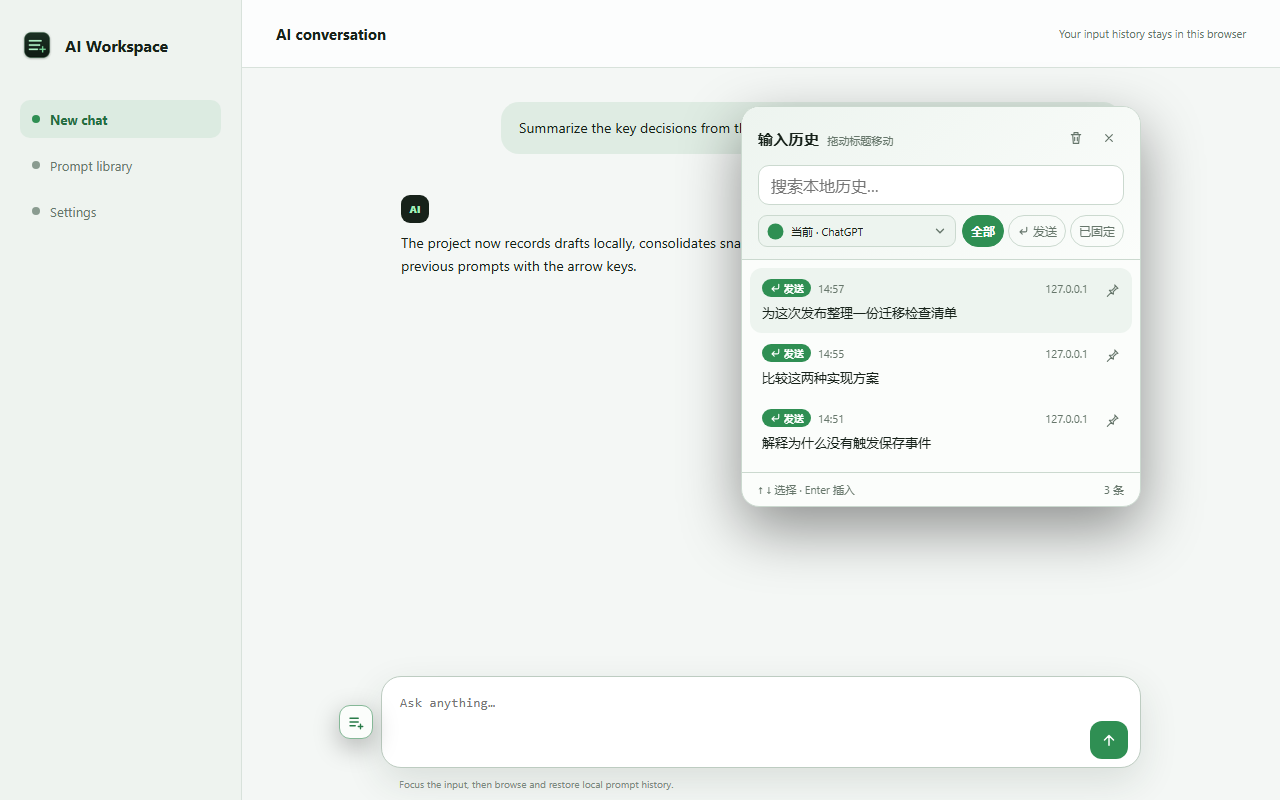
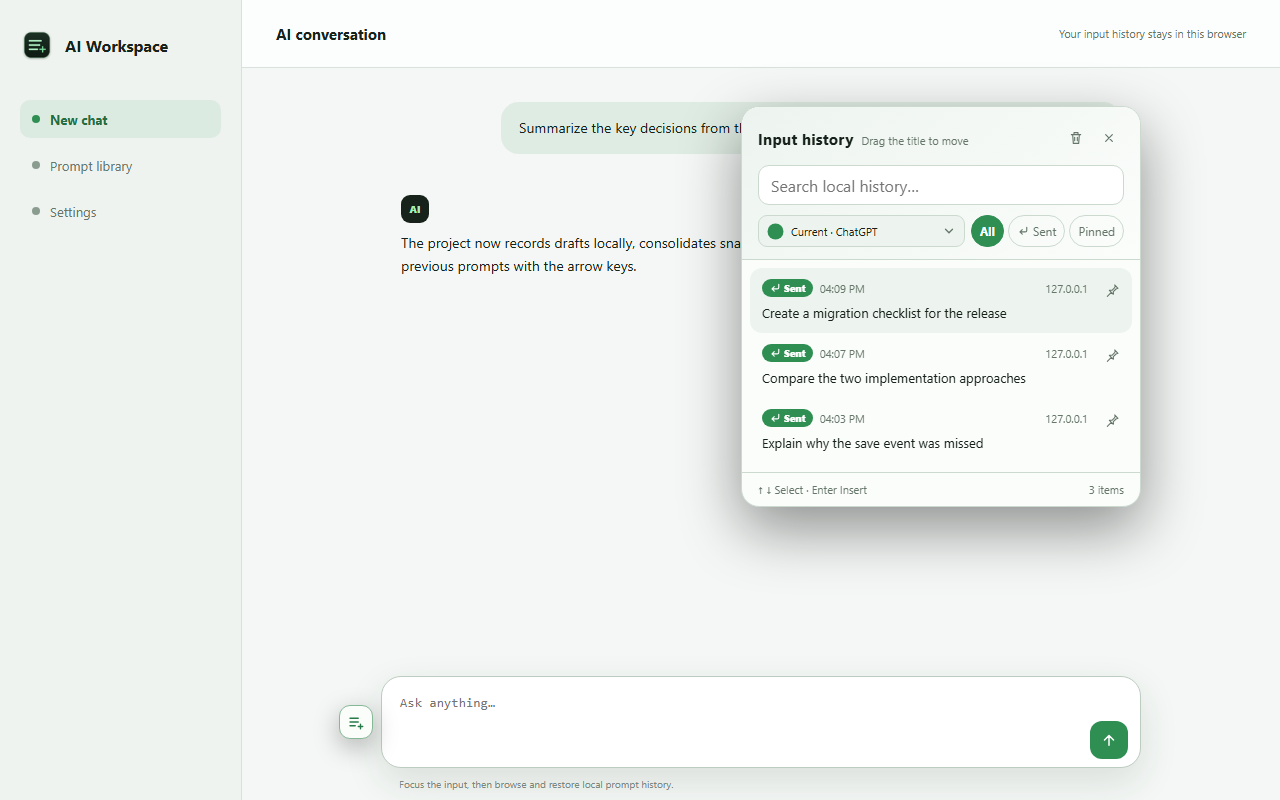
fix: 发布 1.31.1，修复 Queue 与历史导航交互

diff --git a/tests/content-regression.test.js b/tests/content-regression.test.js
@@ -72,17 +72,17 @@ async function setup() {
     },
     HistoryNavigator: class {
       constructor() { h.historyNavigator = this; this.reset(); this.moves = 0; this.interrupts = 0; }
-      reset() { this.browsing = false; this.blocked = false; }
+      reset() { this.browsing = false; }
       isApplying() { return false; }
       isBrowsing() { return this.browsing; }
-      canMove() { return !this.blocked; }
+      canMove() { return true; }
       interrupt() {
-        if (!this.browsing && !this.blocked) return false;
-        this.blocked = true;
+        if (!this.browsing) return false;
+        this.browsing = false;
         this.interrupts += 1;
         return true;
       }
-      async move() { if (this.blocked) return false; this.browsing = true; this.moves += 1; return true; }
+      async move() { this.browsing = true; this.moves += 1; return true; }
     },
     SendDetector: class {
       constructor(adapter, onSend) { this.onSend = onSend; }
@@ -90,6 +90,18 @@ async function setup() {
       handlePointerDown() {}
       watchEnter() {}
       cancelEnter() {}
+    },
+    promptQueueModel: { supportedSite: () => true },
+    PromptQueue: class {
+      constructor() { h.promptQueue = this; this.mutatingComposer = false; this.host = {}; this.shadow = {}; }
+      async init() {}
+      interceptKeydown() { return false; }
+      interceptSubmit() { return false; }
+      interceptSendControl() { return false; }
+      suppressAutoDispatchRecord() { return false; }
+      scheduleDrain() {}
+      onRequestFinished() {}
+      async confirmRecordedSend() { return false; }
     }
   };
   await vm.runInNewContext(source, context);
@@ -189,35 +201,62 @@ test("上下键只在光标到达首尾行边界时切换历史", async () => {
   assert.equal(h.historyNavigator.moves, 1);
 });
 
-test("历史轮换后手动编辑文本会把上下键交还给输入框", async () => {
+test("历史轮换后再次输入只重置游标，不会禁用后续上下历史切换", async () => {
   const h = await setup();
   const first = h.event("keydown", { key: "ArrowUp" });
   assert.equal(first.defaultPrevented, true);
-  assert.equal(first.propagationStopped, true, "历史切换时不能让同一个方向键继续交给页面处理");
   assert.equal(h.historyNavigator.moves, 1);
 
-  h.composer.text = "编辑过的历史内容";
+  h.composer.text = "手动输入的新内容";
   h.event("input");
-  assert.equal(h.historyNavigator.canMove(), false);
+  assert.equal(h.historyNavigator.canMove(), true);
+  assert.equal(h.historyNavigator.isBrowsing(), false, "用户输入后只应结束旧的历史游标");
+
+  h.caretCanMove = false;
   const next = h.event("keydown", { key: "ArrowUp" });
-  assert.equal(next.defaultPrevented, undefined, "中断后要保留浏览器原生光标上下移动");
-  assert.equal(next.propagationStopped, true, "中断后仍不能让方向键泄漏给 ChatGPT 快捷键处理");
-  assert.equal(h.historyNavigator.moves, 1);
+  assert.equal(next.defaultPrevented, true, "新输入后到达首行仍应立即重新浏览历史");
+  assert.equal(h.historyNavigator.moves, 2);
 });
 
-test("历史轮换后键盘或鼠标移动光标会恢复原生上下行移动", async () => {
+test("Queue 连续清空输入框时保留历史游标，可继续选择第三条及更老历史", async () => {
+  const h = await setup();
+  h.caretCanMove = false;
+
+  h.event("keydown", { key: "ArrowUp" });
+  assert.equal(h.historyNavigator.moves, 1);
+  assert.equal(h.historyNavigator.canMove(), true);
+
+  for (const expectedMoves of [2, 3]) {
+    h.promptQueue.mutatingComposer = true;
+    h.composer.text = "";
+    h.event("input");
+    h.promptQueue.mutatingComposer = false;
+    assert.equal(h.historyNavigator.isBrowsing(), true, "Queue 内部清空不能改变当前历史游标");
+
+    const next = h.event("keydown", { key: "ArrowUp" });
+    assert.equal(next.defaultPrevented, true);
+    assert.equal(h.historyNavigator.moves, expectedMoves, `应能继续选择第 ${expectedMoves} 条历史`);
+  }
+
+  h.composer.text = "";
+  h.event("input");
+  assert.equal(h.historyNavigator.canMove(), true, "用户普通清空仍应开始新的历史导航");
+});
+
+test("历史轮换后移动光标只重置游标，边界方向键仍可重新浏览历史", async () => {
   for (const moveCaret of [
     (h) => h.event("keydown", { key: "ArrowLeft" }),
     (h) => h.event("pointerdown", { composedPath: () => [h.composer] })
   ]) {
     const h = await setup();
+    h.caretCanMove = false;
     h.event("keydown", { key: "ArrowUp" });
     moveCaret(h);
-    assert.equal(h.historyNavigator.canMove(), false);
-    const next = h.event("keydown", { key: "ArrowDown" });
-    assert.equal(next.defaultPrevented, undefined);
-    assert.equal(next.propagationStopped, true);
-    assert.equal(h.historyNavigator.moves, 1);
+    assert.equal(h.historyNavigator.canMove(), true);
+    assert.equal(h.historyNavigator.isBrowsing(), false, "移动光标应结束旧游标而不是禁用历史");
+    const next = h.event("keydown", { key: "ArrowUp" });
+    assert.equal(next.defaultPrevented, true);
+    assert.equal(h.historyNavigator.moves, 2);
   }
 });
 

diff --git a/src/prompt-queue.js b/src/prompt-queue.js
@@ -72,9 +72,20 @@
       this.directClickUntil = 0;
       this.directSubmitUntil = 0;
       this.sawPageBusy = false;
+      this.mutatingComposer = false;
       this.drainTimer = null;
       this.host = null;
     }
+
+    setComposerText(input, text) {
+      this.mutatingComposer = true;
+      try {
+        this.adapter.setText(input, text);
+      } finally {
+        this.mutatingComposer = false;
+      }
+    }
+
     async init() {
       if (!this.enabled) return;
       this.items = await this.store.getPromptQueue(this.key);
@@ -168,12 +179,29 @@
         return;
       }
       if (action === "remove") {
-        this.failedIds.delete(id);
-        if (this.dispatchingId === id) this.resetDispatchState();
-        await this.store.removePromptQueueItem(this.key, id);
-        if (this.editingId === id) this.editingId = "";
-        await this.refresh();
+        await this.withdraw(id);
       }
+    }
+
+    async withdraw(id) {
+      await this.syncConversationKey();
+      const item = this.items.find((entry) => entry.id === id);
+      if (!item) return false;
+      this.failedIds.delete(id);
+      if (this.dispatchingId === id) this.resetDispatchState();
+      await this.store.removePromptQueueItem(this.key, id);
+      if (this.editingId === id) this.editingId = "";
+      this.items = await this.store.getPromptQueue(this.key);
+
+      const input = this.getInput?.() || this.adapter.findComposer(document, this.shadow);
+      if (input?.isConnected) {
+        const current = this.adapter.getText(input);
+        const restored = current.trim() ? `${item.text}\n${current}` : item.text;
+        this.setComposerText(input, restored);
+      }
+      this.render();
+      this.scheduleDrain(0);
+      return true;
     }
 
     async sendNow(id) {
@@ -191,7 +219,7 @@
       this.dispatchAttemptAt = 0;
       this.dispatchStartedAt = Date.now();
       this.render();
-      this.adapter.setText(input, item.text);
+      this.setComposerText(input, item.text);
       this.continueDispatch(input, id);
       return true;
     }
@@ -307,7 +335,7 @@
       this.sawPageBusy = this.pageState()?.busy === true;
       const item = await this.store.enqueuePrompt(this.key, text);
       if (!item) return false;
-      this.adapter.setText(input, "");
+      this.setComposerText(input, "");
       this.items = await this.store.getPromptQueue(this.key);
       this.render();
       return true;
@@ -334,7 +362,7 @@
       this.dispatchAttemptAt = 0;
       this.dispatchStartedAt = Date.now();
       this.render();
-      this.adapter.setText(input, item.text);
+      this.setComposerText(input, item.text);
       this.continueDispatch(input, item.id);
     }
 
@@ -356,7 +384,7 @@
       }
       const item = this.items.find((entry) => entry.id === itemId);
       if (!item) return;
-      if (normalizePromptText(this.adapter.getText(input)) !== normalizePromptText(item.text)) this.adapter.setText(input, item.text);
+      if (normalizePromptText(this.adapter.getText(input)) !== normalizePromptText(item.text)) this.setComposerText(input, item.text);
       const button = this.findSendButton(input);
       if (!button) {
         this.scheduleDispatchVerification(input, itemId, 120);
@@ -401,7 +429,7 @@
     markDispatchFailed(input, itemId) {
       if (this.dispatchingId !== itemId) return;
       const currentText = normalizePromptText(this.adapter.getText(input));
-      if (currentText && currentText === normalizePromptText(this.dispatchText)) this.adapter.setText(input, "");
+      if (currentText && currentText === normalizePromptText(this.dispatchText)) this.setComposerText(input, "");
       this.failedIds.add(itemId);
       this.resetDispatchState();
       this.sawPageBusy = false;

diff --git a/src/input-adapter.js b/src/input-adapter.js
@@ -128,15 +128,25 @@
     if (!selection?.rangeCount || !selection.isCollapsed || !element.contains(selection.anchorNode)) return true;
     if (typeof selection.modify !== "function") return fallbackContentEditableBoundary(element, selection, direction);
     const original = selection.getRangeAt(0).cloneRange();
+    const beforeTop = contentEditableCaretTop(original);
     const beforeNode = selection.anchorNode;
     const beforeOffset = selection.anchorOffset;
     try {
       selection.modify("move", direction === "up" ? "backward" : "forward", "line");
+      const afterTop = selection.rangeCount ? contentEditableCaretTop(selection.getRangeAt(0)) : NaN;
+      if (Number.isFinite(beforeTop) && Number.isFinite(afterTop)) {
+        return direction === "up" ? afterTop < beforeTop - 1 : afterTop > beforeTop + 1;
+      }
       return selection.anchorNode !== beforeNode || selection.anchorOffset !== beforeOffset;
     } finally {
       selection.removeAllRanges();
       selection.addRange(original);
     }
+  }
+
+  function contentEditableCaretTop(range) {
+    const rect = range.getClientRects?.()[0] || range.getBoundingClientRect?.();
+    return rect && Number.isFinite(rect.top) ? rect.top : NaN;
   }
 
   function fallbackContentEditableBoundary(element, selection, direction) {

diff --git a/src/content.js b/src/content.js
@@ -156,8 +156,11 @@
     if (!activeInput?.isConnected) handleFocus(event);
     if (adapter.resolveEventEditable(event) !== activeInput) return;
     if (historyNavigator.isApplying()) return;
-    if (!adapter.getText(activeInput).trim()) lastSnapshotText = "";
-    historyNavigator.isBrowsing() ? historyNavigator.interrupt() : historyNavigator.reset();
+    const currentText = adapter.getText(activeInput);
+    if (!currentText.trim()) lastSnapshotText = "";
+    // Queue 的填充/清空只改变编辑框内容，不应改变上下键历史游标。
+    // 用户真实输入则以当前文本作为新的草稿起点，结束旧游标但绝不禁用历史导航。
+    if (promptQueue?.mutatingComposer !== true) historyNavigator.reset();
     clearTimeout(draftTimer);
     draftTimer = setTimeout(saveDraft, 500);
     promptQueue?.scheduleDrain?.(120);

diff --git a/src/history-navigator.js b/src/history-navigator.js
@@ -14,7 +14,6 @@
       this.original = "";
       this.applying = false;
       this.loading = null;
-      this.interrupted = false;
       this.loadRevision = (this.loadRevision || 0) + 1;
     }
 
@@ -27,15 +26,12 @@
     }
 
     canMove() {
-      return this.interrupted !== true;
+      return true;
     }
 
     interrupt() {
-      if (this.interrupted) return true;
       if (!this.isBrowsing()) return false;
-      this.interrupted = true;
-      this.loadRevision += 1;
-      this.loading = null;
+      this.reset();
       return true;
     }
 

diff --git a/README.md b/README.md
@@ -61,7 +61,7 @@
 
 ## ChatGPT Queue 排队
 
-ChatGPT 正在回复时，再发送的新文本会进入 Queue，而不是打断当前回复。Queue 严格按 FIFO 自动处理，每条消息都支持编辑、撤回和“立即发送”。正常情况下上一轮回复确认结束后才发送下一条；点击“立即发送”可主动重试指定 Queue 项。自动发送只有在会话 DOM 中真正出现对应的新 user turn 后才算成功并出队，避免误点语音按钮或页面忽略 click 时丢消息。
+ChatGPT 正在回复时，再发送的新文本会进入 Queue，而不是打断当前回复。Queue 严格按 FIFO 自动处理，每条消息都支持编辑、撤回和“立即发送”；撤回会把内容放回主输入框。Queue 的入队、撤回和程序化填充不会禁用上下键历史导航，用户重新输入或移动光标后，到达首尾视觉行仍可继续使用 ↑/↓ 浏览历史。正常情况下上一轮回复确认结束后才发送下一条；点击“立即发送”可主动重试指定 Queue 项。自动发送只有在会话 DOM 中真正出现对应的新 user turn 后才算成功并出队，避免误点语音按钮或页面忽略 click 时丢消息。
 
 如果某条 Queue 自动发送长时间无法确认，扩展会把它标记为“发送未确认”，保留内容并释放队列锁，后面的正常消息仍可继续处理。Queue 数据仅保存在当前浏览器，并按 ChatGPT 会话 URL 隔离；新会话从临时 `/` 地址切换到 `/c/...` 后会迁移队列。完整行为见 [ChatGPT Queue 排队说明](docs/prompt-queue.md)。
 

diff --git a/store-assets/listing-en.md b/store-assets/listing-en.md
@@ -22,7 +22,7 @@ Key features:
 - Add other AI domains manually;
 - English and Chinese interfaces, dark mode, custom shortcuts, and a movable floating button; right-click an active timer to stop a stuck observation;
 - Track total conversations, today, this week, this month, and cumulative active days/weeks/months separately for each AI, with an independent clear action;
-- Queue prompts while ChatGPT is replying, with edit, remove, and Send now actions; queued prompts send in order after the previous reply completes, and failed items do not permanently block later prompts;
+- Queue prompts while ChatGPT is replying, with edit, withdraw, and Send now actions; withdrawing restores the prompt to the composer, and Queue actions do not disable Up/Down history navigation; queued prompts send in order after the previous reply completes, and failed items do not permanently block later prompts;
 - Track ChatGPT send-to-completion duration and optionally notify when a reply completes;
 - Filter automatic completion notifications by minimum duration (20 seconds by default) and inspect a local redacted debug log for notification troubleshooting;
 - Notifications support browser/system notifications, Bark, ServerChan, PushPlus, ntfy, Gotify, DingTalk, Feishu, WeCom robots, and custom HTTP requests;

diff --git a/docs/prompt-queue.md b/docs/prompt-queue.md
@@ -16,3 +16,10 @@ AI Input History 1.31.0 起支持 ChatGPT Queue。当前一轮仍在生成时，
 某条 Queue 自动发送后，如果 10 秒内仍无法确认 ChatGPT 真正接收，扩展会把它标记为“发送未确认”。该消息继续保留，可重新编辑、撤回或点击“立即发送”，但它不会继续占用发送锁，后面的正常 Queue 可以继续处理。
 
 如果 RequestTiming 因网页状态异常长期未结束，但页面已经没有生成状态且最后回复明确完成，超过 2 分钟后 Queue 不再让该旧计时阻塞新的直接发送或自动出队。也可以右键悬浮计时按钮选择“停止计时”手动清除当前观察状态。
+
+
+## 1.31.1 修复
+
+- Queue 不再改变或永久中断输入框的上下历史导航状态；用户输入、移动光标或 Queue 程序化填充后，到达首尾视觉行仍可继续使用 `↑/↓` 浏览历史。
+- 从历史中取出内容并再次编辑时，只重置当前历史游标；下一次方向键会以当前输入内容作为新的草稿起点继续浏览。
+- “撤回” Queue 消息会把内容放回主输入框；如果输入框已有草稿，会保留两份内容并用换行分隔，避免静默覆盖。

diff --git a/store-assets/submission-checklist.md b/store-assets/submission-checklist.md
@@ -2,7 +2,7 @@
 
 ## 已准备文件
 
-- 扩展上传包：`dist/ai-input-history-1.31.0.zip`
+- 扩展上传包：`dist/ai-input-history-1.31.1.zip`
 - 商店图标：`store-assets/store-icon-128.png`
 - 小型宣传图：`store-assets/promo-small-440x280.png`
 - Marquee 宣传图：`store-assets/promo-marquee-1400x560.png`
